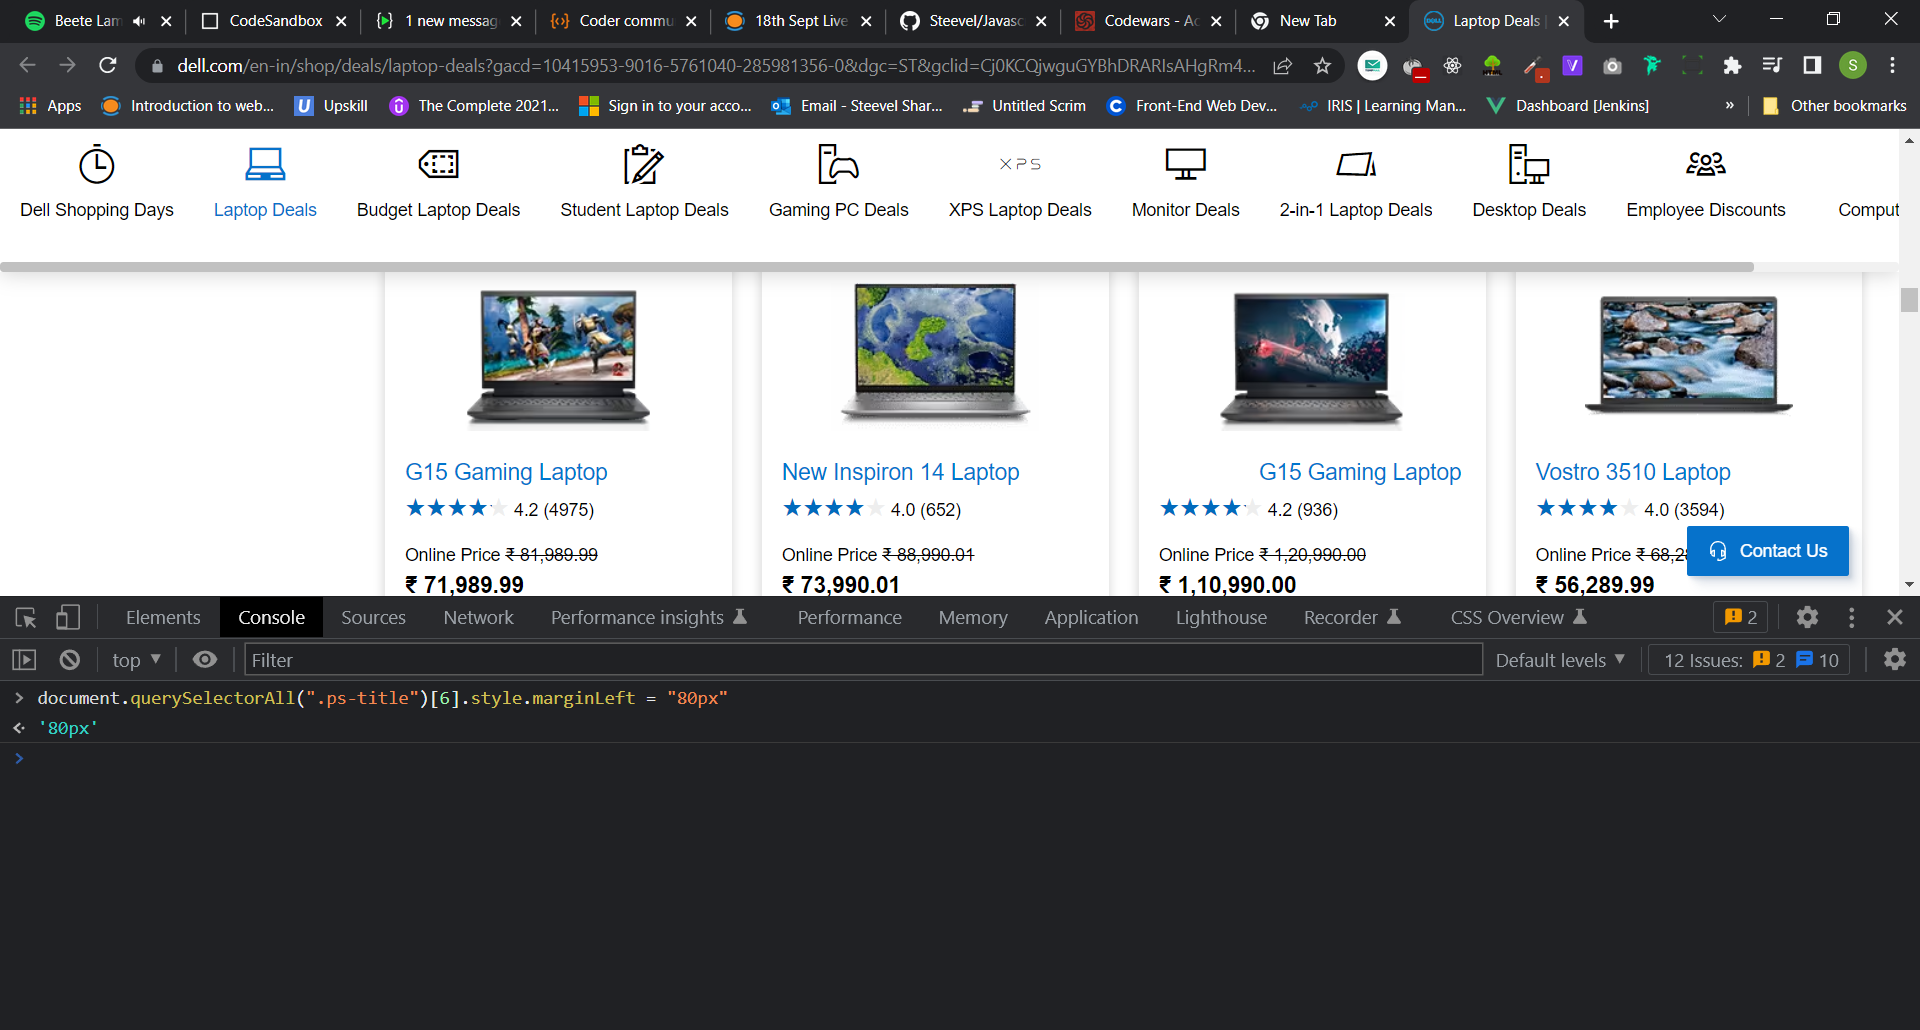
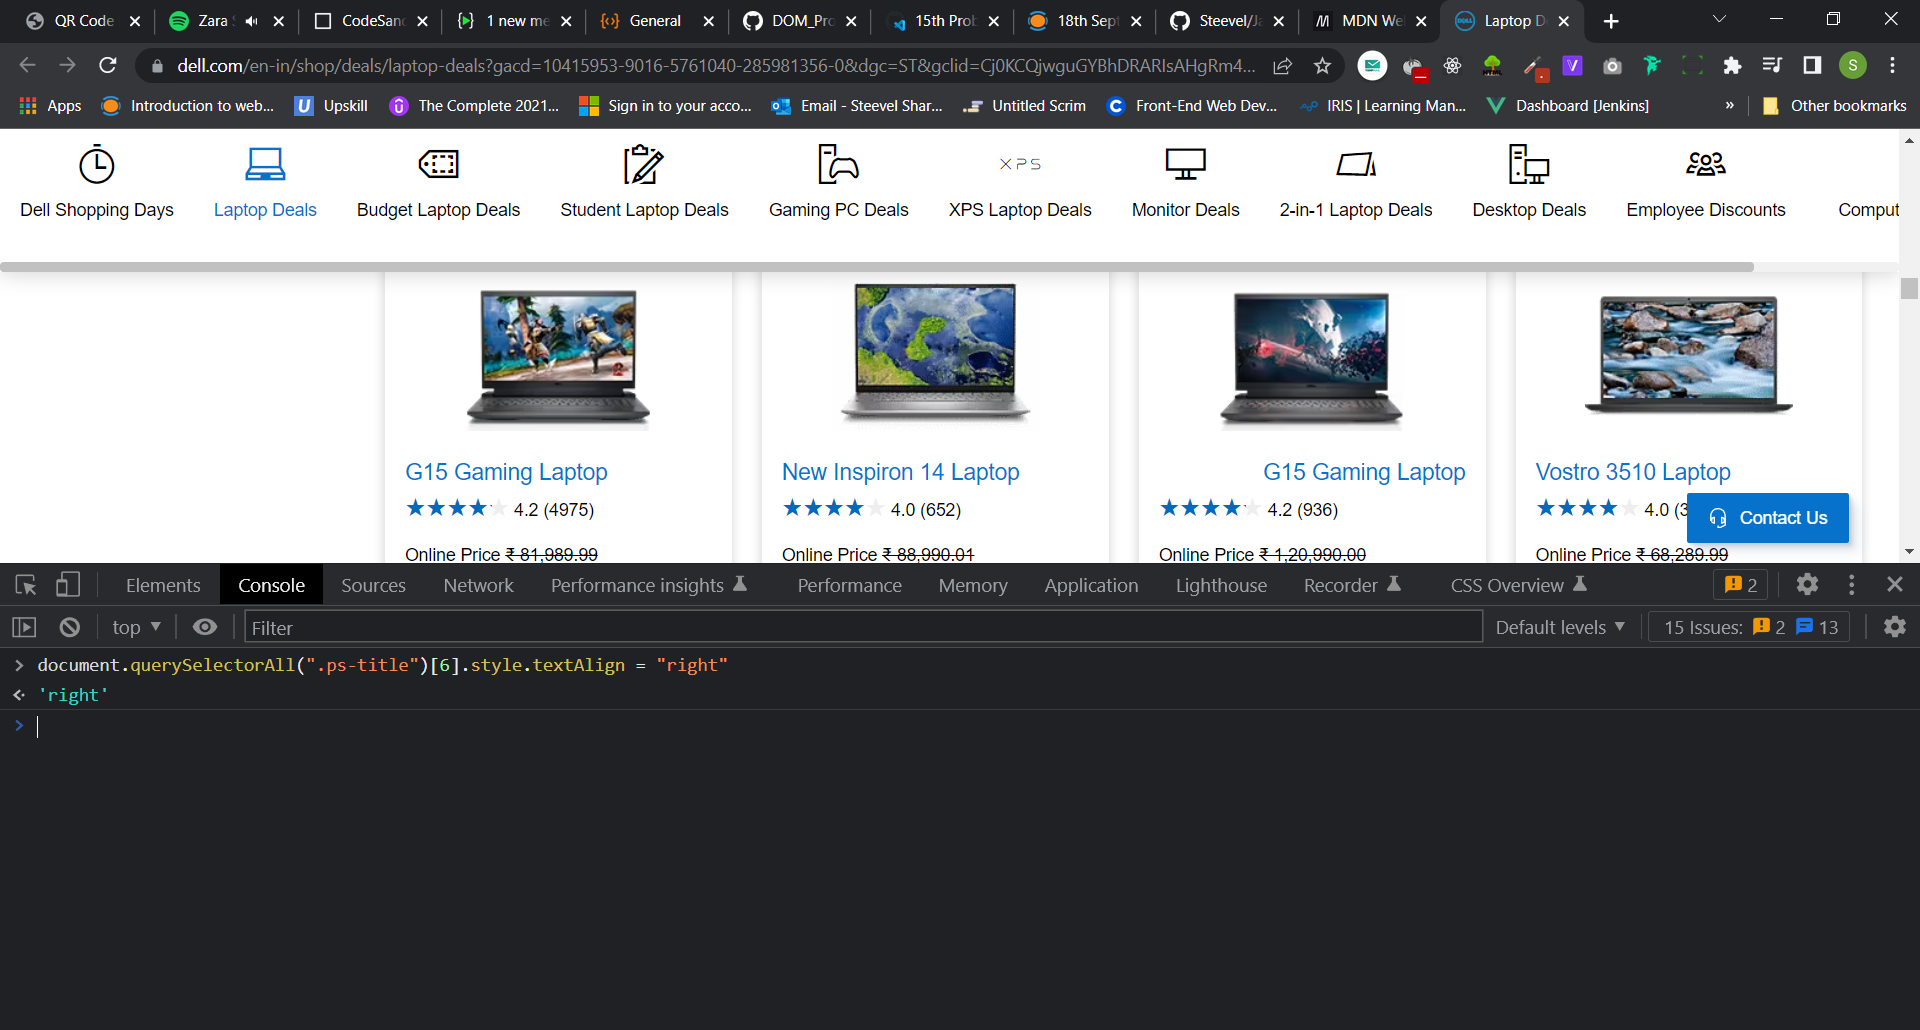
Assignment 15 Updated

diff --git a/DOM solution.md b/DOM solution.md
@@ -73,8 +73,15 @@ searchbox.addEventListener('mouseout', function changeColor(event) {
 
 ```javascript
 document.getElementById("hp-search-input").value = "CSS Selectors"
+(function(){
+    document.querySelectorAll(".button.action.has-icon.search-button")[1].click();
+})();
+
+
+let ele = document.querySelectorAll(".button.action.has-icon.search-button")[1]
+ele.click()
 function test(){
-document.querySelectorAll(".button.action.has-icon.search-button")[1].click()
+ele.onclick()
 }
 test()
 // document.querySelectorAll(".button.action.has-icon.search-button")[1].click()
@@ -160,7 +167,7 @@ document.querySelector(".HotDealsAll__Heading__2fIbe").style.fontSize = '80px'
 ## Assignment 15
 
 ```javascript
-document.querySelectorAll(".ps-title")[6].style.marginLeft = "80px"
+document.querySelectorAll(".ps-title")[6].style.textAlign = "right"
 ```
 
 ![solution screenshot](./Solutions/assignment%2015.PNG)
